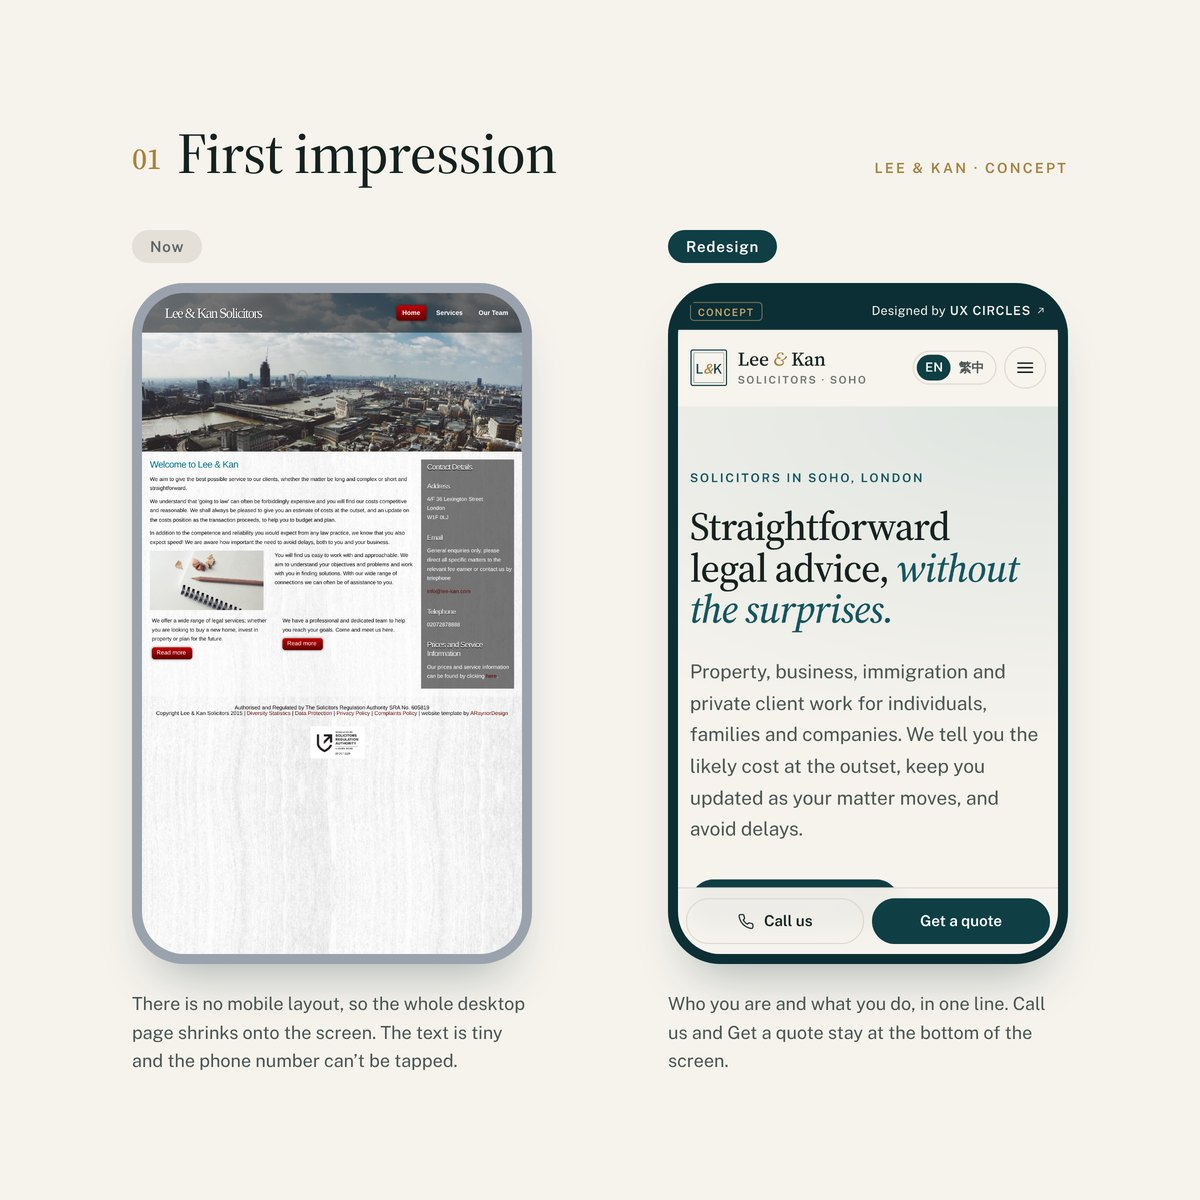
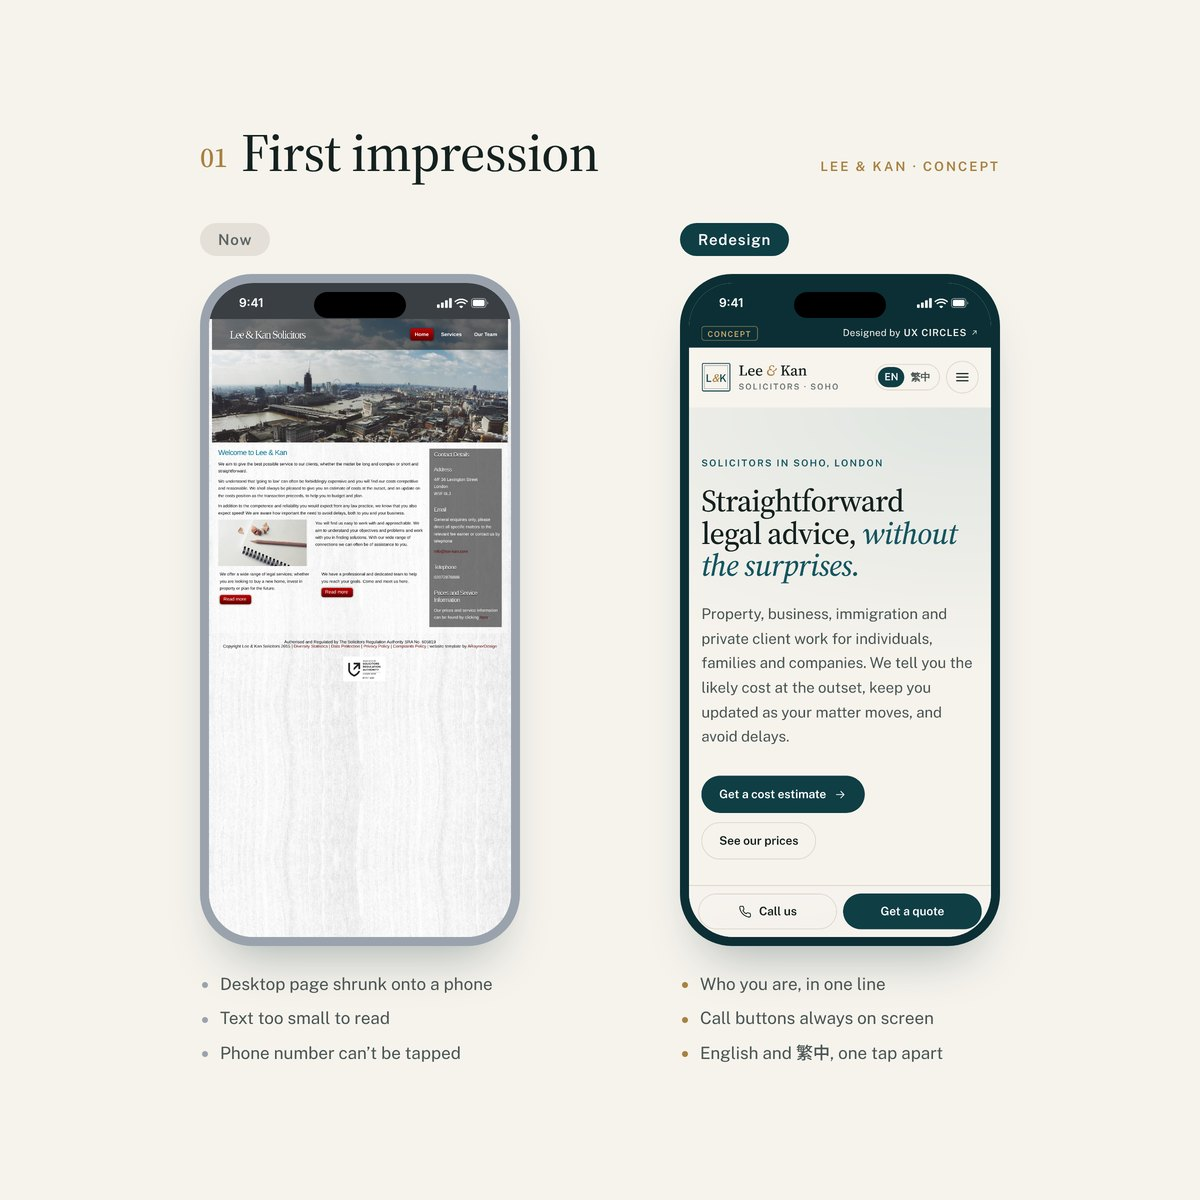
Update Home Office fees and redraw the pitch cards
- Immigration table: Home Office, tribunal and BN(O) fees as listed on
  GOV.UK in October 2026 (the firm's PDF quoted October 2023 amounts)
- Pitch cards: true iPhone screen proportions with a status bar, and
  short bullet points under each phone

Claude-Session: https://claude.ai/code/session_012xdZwm4MmzzjVKzF7GoJgp

diff --git a/fees.html b/fees.html
@@ -169,9 +169,9 @@
         <p>Work is carried out by a Partner or our Immigration Consultant, who has handled immigration matters since 2021 and has been a registered barrister in Hong Kong since 2012. We handle the application from start to finish: forms and covering letter, biometric appointment, paying UKVI and IHS fees, document checklists and review, uploading the bundle and chasing UKVI for updates.</p>
         <div class="table-wrap"><table class="fee-table wide">
           <thead><tr><th>Matter</th><th>Our fee (+ VAT)</th><th>Expected disbursements</th></tr></thead>
-          <tbody><tr><td>Family visa (spouse / child), entry clearance</td><td class="num">£2,000 – £2,200</td><td>Home Office fee £1,846<br>Immigration Health Surcharge £1,035 per year</td></tr><tr><td>Family visa (spouse / child), extension</td><td class="num">£1,800 – £2,000</td><td>Home Office fee £1,846<br>Immigration Health Surcharge £1,035 per year</td></tr><tr><td>Graduate and High Potential Individual visas</td><td class="num">£1,000</td><td>Home Office fee £822<br>Immigration Health Surcharge £1,035 per year</td></tr><tr><td>10-year long residence ILR (settlement)</td><td class="num">£1,900 – £2,100</td><td>Home Office fee £2,885</td></tr><tr><td>Other Indefinite Leave to Remain (settlement)</td><td class="num">£1,800 – £2,000</td><td>Home Office fee £2,885</td></tr><tr><td>Naturalisation as a British citizen</td><td class="num">£1,200</td><td>Home Office fee £1,500</td></tr><tr><td>British National (Overseas) visa</td><td class="num">£1,200</td><td>Home Office fee £250 (5 years) / £180 (30 months)<br>Immigration Health Surcharge £1,035 per year</td></tr><tr><td>Visitor visa (6 months)</td><td class="num">£1,000</td><td>Home Office fee £115</td></tr><tr><td>Immigration appeal (First-tier Tribunal)</td><td class="num">£2,500 – £3,500</td><td>Court fee £140 (oral hearing)<br>Barrister’s fee for complex cases, plus VAT</td></tr><tr><td>Administrative review</td><td class="num">£600 – £800</td><td>Home Office fee £80</td></tr></tbody>
+          <tbody><tr><td>Family visa (spouse / child), entry clearance</td><td class="num">£2,000 – £2,200</td><td>Home Office fee £2,064<br>Immigration Health Surcharge £1,035 per year</td></tr><tr><td>Family visa (spouse / child), extension</td><td class="num">£1,800 – £2,000</td><td>Home Office fee £1,407<br>Immigration Health Surcharge £1,035 per year</td></tr><tr><td>Graduate and High Potential Individual visas</td><td class="num">£1,000</td><td>Home Office fee £937 (Graduate) / £880 (HPI)<br>Immigration Health Surcharge £1,035 per year</td></tr><tr><td>10-year long residence ILR (settlement)</td><td class="num">£1,900 – £2,100</td><td>Home Office fee £3,226</td></tr><tr><td>Other Indefinite Leave to Remain (settlement)</td><td class="num">£1,800 – £2,000</td><td>Home Office fee £3,226</td></tr><tr><td>Naturalisation as a British citizen</td><td class="num">£1,200</td><td>Home Office fee £1,839 (incl. £130 ceremony)</td></tr><tr><td>British National (Overseas) visa</td><td class="num">£1,200</td><td>Home Office fee £285 (5 years) / £206 (30 months)<br>Immigration Health Surcharge £1,035 per year</td></tr><tr><td>Visitor visa (6 months)</td><td class="num">£1,000</td><td>Home Office fee £135</td></tr><tr><td>Immigration appeal (First-tier Tribunal)</td><td class="num">£2,500 – £3,500</td><td>Tribunal fee £144 (with a hearing)<br>Barrister’s fee for complex cases, plus VAT</td></tr><tr><td>Administrative review</td><td class="num">£600 – £800</td><td>Home Office fee £80</td></tr></tbody>
         </table></div>
-        <p class="fee-note">Home Office fees from 4 October 2023; Immigration Health Surcharge from 6 February 2024. These are not subject to VAT. Applications submitted from outside the UK may cost more because of exchange rates and card surcharges. Other possible costs: bank transfer £5–£15 + VAT, courier about £50 + VAT, postage at Post Office rates.</p>
+        <p class="fee-note">Home Office, tribunal and Immigration Health Surcharge amounts as listed on GOV.UK in October 2026; they change from time to time. They are not subject to VAT. Applications submitted from outside the UK may cost more because of exchange rates and card surcharges. Other possible costs: bank transfer £5–£15 + VAT, courier about £50 + VAT, postage at Post Office rates.</p>
       </section>
 
       <section class="fee-sec" id="debt">

diff --git a/zh/fees.html b/zh/fees.html
@@ -169,9 +169,9 @@
         <p>由合夥人或本行移民顧問處理。該顧問自 2021 年起處理移民事務，並自 2012 年起為香港註冊大律師。我們由頭到尾處理申請：填寫表格及附信、預約生物特徵登記、代繳 UKVI 及 IHS 費用、整理及審閱文件清單、上載申請文件，以及向 UKVI 跟進進度。</p>
         <div class="table-wrap"><table class="fee-table wide">
           <thead><tr><th>事項</th><th>律師費（另加增值稅）</th><th>預計代支費用</th></tr></thead>
-          <tbody><tr><td>家庭簽證（配偶／子女），入境申請</td><td class="num">£2,000 – £2,200</td><td>內政部申請費 £1,846<br>移民健康附加費每年 £1,035</td></tr><tr><td>家庭簽證（配偶／子女），續簽</td><td class="num">£1,800 – £2,000</td><td>內政部申請費 £1,846<br>移民健康附加費每年 £1,035</td></tr><tr><td>畢業生簽證及高潛力人才簽證</td><td class="num">£1,000</td><td>內政部申請費 £822<br>移民健康附加費每年 £1,035</td></tr><tr><td>十年長期居留永久居留（ILR）</td><td class="num">£1,900 – £2,100</td><td>內政部申請費 £2,885</td></tr><tr><td>其他永久居留（ILR）</td><td class="num">£1,800 – £2,000</td><td>內政部申請費 £2,885</td></tr><tr><td>入籍英國</td><td class="num">£1,200</td><td>內政部申請費 £1,500</td></tr><tr><td>BN(O) 簽證</td><td class="num">£1,200</td><td>內政部申請費 £250（5 年）／£180（30 個月）<br>移民健康附加費每年 £1,035</td></tr><tr><td>訪客簽證（6 個月）</td><td class="num">£1,000</td><td>內政部申請費 £115</td></tr><tr><td>移民上訴（初級審裁處）</td><td class="num">£2,500 – £3,500</td><td>法院費用 £140（口頭聆訊）<br>複雜案件另加大律師費及增值稅</td></tr><tr><td>行政覆核</td><td class="num">£600 – £800</td><td>內政部申請費 £80</td></tr></tbody>
+          <tbody><tr><td>家庭簽證（配偶／子女），入境申請</td><td class="num">£2,000 – £2,200</td><td>內政部申請費 £2,064<br>移民健康附加費每年 £1,035</td></tr><tr><td>家庭簽證（配偶／子女），續簽</td><td class="num">£1,800 – £2,000</td><td>內政部申請費 £1,407<br>移民健康附加費每年 £1,035</td></tr><tr><td>畢業生簽證及高潛力人才簽證</td><td class="num">£1,000</td><td>內政部申請費 £937（畢業生）／£880（高潛力人才）<br>移民健康附加費每年 £1,035</td></tr><tr><td>十年長期居留永久居留（ILR）</td><td class="num">£1,900 – £2,100</td><td>內政部申請費 £3,226</td></tr><tr><td>其他永久居留（ILR）</td><td class="num">£1,800 – £2,000</td><td>內政部申請費 £3,226</td></tr><tr><td>入籍英國</td><td class="num">£1,200</td><td>內政部申請費 £1,839（包括 £130 入籍儀式費）</td></tr><tr><td>BN(O) 簽證</td><td class="num">£1,200</td><td>內政部申請費 £285（5 年）／£206（30 個月）<br>移民健康附加費每年 £1,035</td></tr><tr><td>訪客簽證（6 個月）</td><td class="num">£1,000</td><td>內政部申請費 £135</td></tr><tr><td>移民上訴（初級審裁處）</td><td class="num">£2,500 – £3,500</td><td>審裁處費用 £144（設聆訊）<br>複雜案件另加大律師費及增值稅</td></tr><tr><td>行政覆核</td><td class="num">£600 – £800</td><td>內政部申請費 £80</td></tr></tbody>
         </table></div>
-        <p class="fee-note">內政部申請費以 2023 年 10 月 4 日為準；移民健康附加費以 2024 年 2 月 6 日為準，兩者均不設增值稅。在英國境外提交的申請，可能因匯率及信用卡附加費而費用較高。其他可能費用：銀行轉帳 £5–£15（另加增值稅）、速遞約 £50（另加增值稅）、郵費按郵局收費。</p>
+        <p class="fee-note">內政部申請費、審裁處費用及移民健康附加費以 2026 年 10 月 GOV.UK 所列為準，日後或會調整，均不設增值稅。在英國境外提交的申請，可能因匯率及信用卡附加費而費用較高。其他可能費用：銀行轉帳 £5–£15（另加增值稅）、速遞約 £50（另加增值稅）、郵費按郵局收費。</p>
       </section>
 
       <section class="fee-sec" id="debt">

diff --git a/_build/build.py b/_build/build.py
@@ -493,17 +493,17 @@ def fees():
     hof = L("Home Office fee", "內政部申請費")
     ihs = L("Immigration Health Surcharge £1,035 per year", "移民健康附加費每年 £1,035")
     imm = [
-        (L("Family visa (spouse / child), entry clearance", "家庭簽證（配偶／子女），入境申請"), "£2,000 – £2,200", f"{hof} £1,846<br>{ihs}"),
-        (L("Family visa (spouse / child), extension", "家庭簽證（配偶／子女），續簽"), "£1,800 – £2,000", f"{hof} £1,846<br>{ihs}"),
-        (L("Graduate and High Potential Individual visas", "畢業生簽證及高潛力人才簽證"), "£1,000", f"{hof} £822<br>{ihs}"),
-        (L("10-year long residence ILR (settlement)", "十年長期居留永久居留（ILR）"), "£1,900 – £2,100", f"{hof} £2,885"),
-        (L("Other Indefinite Leave to Remain (settlement)", "其他永久居留（ILR）"), "£1,800 – £2,000", f"{hof} £2,885"),
-        (L("Naturalisation as a British citizen", "入籍英國"), "£1,200", f"{hof} £1,500"),
+        (L("Family visa (spouse / child), entry clearance", "家庭簽證（配偶／子女），入境申請"), "£2,000 – £2,200", f"{hof} £2,064<br>{ihs}"),
+        (L("Family visa (spouse / child), extension", "家庭簽證（配偶／子女），續簽"), "£1,800 – £2,000", f"{hof} £1,407<br>{ihs}"),
+        (L("Graduate and High Potential Individual visas", "畢業生簽證及高潛力人才簽證"), "£1,000", f"{hof} {L('£937 (Graduate) / £880 (HPI)', '£937（畢業生）／£880（高潛力人才）')}<br>{ihs}"),
+        (L("10-year long residence ILR (settlement)", "十年長期居留永久居留（ILR）"), "£1,900 – £2,100", f"{hof} £3,226"),
+        (L("Other Indefinite Leave to Remain (settlement)", "其他永久居留（ILR）"), "£1,800 – £2,000", f"{hof} £3,226"),
+        (L("Naturalisation as a British citizen", "入籍英國"), "£1,200", f"{hof} {L('£1,839 (incl. £130 ceremony)', '£1,839（包括 £130 入籍儀式費）')}"),
         (L("British National (Overseas) visa", "BN(O) 簽證"), "£1,200",
-         f"{hof} {L('£250 (5 years) / £180 (30 months)', '£250（5 年）／£180（30 個月）')}<br>{ihs}"),
-        (L("Visitor visa (6 months)", "訪客簽證（6 個月）"), "£1,000", f"{hof} £115"),
+         f"{hof} {L('£285 (5 years) / £206 (30 months)', '£285（5 年）／£206（30 個月）')}<br>{ihs}"),
+        (L("Visitor visa (6 months)", "訪客簽證（6 個月）"), "£1,000", f"{hof} £135"),
         (L("Immigration appeal (First-tier Tribunal)", "移民上訴（初級審裁處）"), "£2,500 – £3,500",
-         L("Court fee £140 (oral hearing)<br>Barrister’s fee for complex cases, plus VAT", "法院費用 £140（口頭聆訊）<br>複雜案件另加大律師費及增值稅")),
+         L("Tribunal fee £144 (with a hearing)<br>Barrister’s fee for complex cases, plus VAT", "審裁處費用 £144（設聆訊）<br>複雜案件另加大律師費及增值稅")),
         (L("Administrative review", "行政覆核"), "£600 – £800", f"{hof} £80"),
     ]
     imm_rows = "".join(f"<tr><td>{a}</td><td class=\"num\">{b}</td><td>{c}</td></tr>" for a, b, c in imm)
@@ -678,8 +678,8 @@ def fees():
           <thead><tr><th>{L("Matter", "事項")}</th><th>{L("Our fee (+ VAT)", "律師費（另加增值稅）")}</th><th>{L("Expected disbursements", "預計代支費用")}</th></tr></thead>
           <tbody>{imm_rows}</tbody>
         </table></div>
-        <p class="fee-note">{L("Home Office fees from 4 October 2023; Immigration Health Surcharge from 6 February 2024. These are not subject to VAT. Applications submitted from outside the UK may cost more because of exchange rates and card surcharges. Other possible costs: bank transfer £5–£15 + VAT, courier about £50 + VAT, postage at Post Office rates.",
-                               "內政部申請費以 2023 年 10 月 4 日為準；移民健康附加費以 2024 年 2 月 6 日為準，兩者均不設增值稅。在英國境外提交的申請，可能因匯率及信用卡附加費而費用較高。其他可能費用：銀行轉帳 £5–£15（另加增值稅）、速遞約 £50（另加增值稅）、郵費按郵局收費。")}</p>
+        <p class="fee-note">{L("Home Office, tribunal and Immigration Health Surcharge amounts as listed on GOV.UK in October 2026; they change from time to time. They are not subject to VAT. Applications submitted from outside the UK may cost more because of exchange rates and card surcharges. Other possible costs: bank transfer £5–£15 + VAT, courier about £50 + VAT, postage at Post Office rates.",
+                               "內政部申請費、審裁處費用及移民健康附加費以 2026 年 10 月 GOV.UK 所列為準，日後或會調整，均不設增值稅。在英國境外提交的申請，可能因匯率及信用卡附加費而費用較高。其他可能費用：銀行轉帳 £5–£15（另加增值稅）、速遞約 £50（另加增值稅）、郵費按郵局收費。")}</p>
       </section>
 
       <section class="fee-sec" id="debt">

diff --git a/README.md b/README.md
@@ -36,7 +36,7 @@
 
 ## 內容來源
 
-所有文字、收費和團隊資料都取自官方網站及其 [LKPrices.pdf](https://www.lee-kan.com/LKPrices.pdf)。沒有加入律所未公布的資料（成立年份、律師簡歷、營業時間等）。移民收費中的 Home Office 費用以 PDF 所列日期為準（2023 年 10 月 / 2024 年 2 月），正式上線前需要律所確認是否已更新。
+所有文字、收費和團隊資料都取自官方網站及其 [LKPrices.pdf](https://www.lee-kan.com/LKPrices.pdf)。沒有加入律所未公布的資料（成立年份、律師簡歷、營業時間等）。律所自己的收費照 PDF 原文；移民收費表裡的 Home Office 申請費、審裁處費用和移民健康附加費屬於第三方費用，已按 2026 年 10 月 GOV.UK 所列更新（PDF 原本是 2023 年 10 月的數字）。這些費用會不定期調整，上線前要再核對一次。
 
 ## 修改與建置
 
